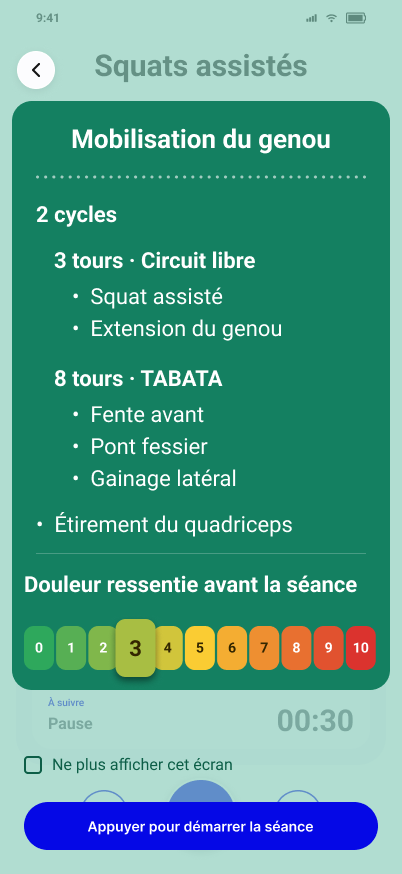
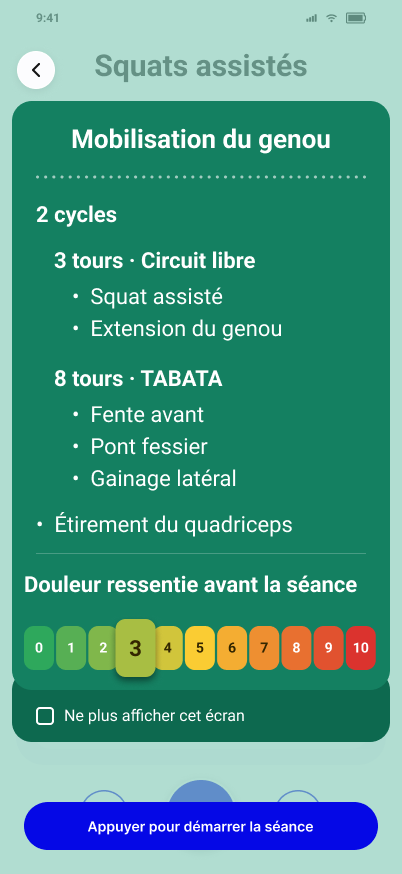
docs: case « Ne plus afficher » dans un cadre accroché (D-577)
Claude-Session: https://claude.ai/code/session_0138cCmJPZqMKdiqcqtCSEpU

Changed region(s): [[0.0299, 0.7723, 0.9851, 0.8959]]

diff --git a/docs/Specifications-fonctionnelles/07 – Registre des décisions de conception.md b/docs/Specifications-fonctionnelles/07 – Registre des décisions de conception.md
@@ -2439,7 +2439,7 @@ Source : [KODJO-Catalogues-cartes-modales-2026-11-06](../KODJO-Catalogues-cartes
 | D-574 | **Modale « Paramètres d'exécution » : fermeture.** La modale n'a pas de poignée (barre horizontale au-dessus du titre) : elle se ferme uniquement par la croix (sans valider, rien n'est enregistré) ou par la coche (valide). Le glissé vers le bas est désactivé : il n'est pas configuré et fermerait la modale en perdant les saisies. Les autres modales du produit gardent leur poignée dans Figma (non revue). Décision de Hermann, 26/11/2026. | Validée — 26/11/2026 | [KODJO-Formats-entrainement-2026-11-02](../KODJO-Formats-entrainement-2026-11-02.md) § 9.10 |
 | D-575 | **Pages des formats Tabata, 30/30, HIIT et Renforcement ; modale du Renforcement.** (1) Tabata, 30/30, HIIT : colonne « Objectif » renommée « Intervalle » ; la Durée totale est la dernière ligne du cadre des paramètres (après Exécution et, pour le Tabata à la suite, après « Récupération entre les mouvements ») ; la colonne Charge disparaît : la charge est écrite sous la valeur de l'intervalle, en plus petit et entre parenthèses, et rien n'est affiché quand il n'y a pas de charge. (2) Renforcement : même règle pour la charge (sous la valeur de la colonne Objectif) ; la Durée totale vient après la ligne Exécution ; la première colonne du tableau est « Séries » (nombre de séries de chaque mouvement) ; la ligne globale « Nombre de séries » est supprimée de la page. (2 bis) Death by : la charge est écrite sous la valeur de la colonne Départ, comme au point 1, et la colonne Charge disparaît. (2 ter) Dans les tableaux de ces formats, la dernière colonne est alignée à droite. (3) Modale « Paramètres d'exécution » du Renforcement : un premier cadre porte le Mode seul ; un deuxième réunit Nombre de répétitions, Nombre de séries, Pause et Charge ; un troisième De chaque côté + Cadence (D-572). (3 bis) Renforcement, nombre de séries : « À la suite », chaque mouvement a son propre nombre de séries ; « En alternance », les mouvements partagent les tours : le nombre de séries est commun et lié (le modifier pour un mouvement le modifie pour tous, dans le tableau comme dans la modale) ; le passage à « À la suite » conserve la valeur actuelle de chaque mouvement, qui peuvent ensuite différer. (4) Zone de contexte (Composition) : la durée totale est alignée à droite, en noir, au premier plan, par-dessus l'emplacement de l'illustration ; Progression : Durée totale après Exécution. Décisions de Hermann, 26/11/2026 ; la ligne Pause de la modale porte la colonne Pause de la page. | Validée — 26/11/2026 | [KODJO-Formats-entrainement-2026-11-02](../KODJO-Formats-entrainement-2026-11-02.md) § 9.10 |
 | D-576 | **Exécution d'un exercice : permutation des vues et changement de média.** (1) Un glissé horizontal (gauche ou droite) sur la zone du haut permute cadran ↔ gros chiffres ; sur la zone du bas (carte des informations ou média) il permute infos ↔ média. (2) Aucun écran d'exécution ne comporte de bouton ⇄ (retirés partout dans Figma le 26/11/2026) : la permutation des vues se fait uniquement par le glissé. [Remplace le bouton de changement de face de D-203 et la proposition du 26/11/2026 de deux boutons ⇄.] (3) Le glissé ne change plus de média : le changement de média se fait avec des flèches gauche/droite sur la zone média ; la galerie reste à plusieurs médias, ordre de la galerie, non circulaire, flèche inactive à la borne, pagination conservée. (4) Le média reste à la taille du demi-écran tant que le bouton d'extension n'est pas actionné ; les flèches de changement de média existent aussi en plein écran. Décisions de Hermann, 26/11/2026. | Validée — 26/11/2026 | [CONCEPTION-EXECUTION-MEDIA](../CONCEPTION-EXECUTION-MEDIA.md) § 5 |
-| D-577 | **Écran « Avant la séance » (affiché avant l'écran d'exécution avec le compte à rebours).** (1) Contenu : en-tête DSF avec bouton Retour et, pour titre, le nom de la séance (pas de zone de contexte, pas de trait de séparation) ; liste en lignes de texte, sans rail ni cartes (ce n'est pas une copie de la composition), des exercices, cycles et circuits qui vont être exécutés, dans l'ordre de la composition, avec le format de chaque circuit mis en évidence (chiffre en premier : « 8 tours · TABATA » (nom du format en majuscules, pour qu'on voie bien quel format est utilisé ; « Circuit libre » quand le circuit n'a pas de format), « 3 tours · Circuit libre », « 2 cycles » ; sans le détail des durées ni la nature groupées/alternées) ; bouton Commencer. (2) Lancement dans un Programme dont l'option douleur est active (D-427) : échelle de douleur 0–10 (libellé « Douleur ressentie avant la séance », sans légende : les cases 0 à 10 sont colorées du vert au rouge selon leur niveau, les couleurs suffisant à indiquer le sens de l'échelle) obligatoire, sans présélection, Le bouton de départ est inactif tant qu'aucun chiffre n'est choisi ; l'écran est toujours affiché. (3) Autre lancement : pas d'échelle de douleur ; une case à cocher « Ne plus afficher cet écran » est proposée, uniquement dans ce cas, en plus petit, hors du cadre vert, sous le cadre et juste au-dessus du bouton. Elle désactive l'affichage de l'écran pour cette séance seulement, jusqu'à ce que l'ordre ou le contenu de la séance (exercices, cycles, circuits, formats) change ; un changement des paramètres d'exécution (durées, répétitions) ne le fait pas réapparaître. Pour toutes les séances, le réglage « Afficher l'écran de démarrage de séance » (interrupteur, activé par défaut, premier réglage du groupe Séance de Profil › Préférences) affiche l'écran pour toute séance ; désactivé, il ne l'affiche pour aucune. La capture de la douleur ne dépend que du Programme (option douleur, D-427) et n'est pas concernée : les deux informations (liste de la séance, douleur) sont distinctes ; avec l'option douleur active, ni la case ni le réglage ne suppriment la capture : quand l'affichage est désactivé, seule la douleur est demandée : même écran, avec dans le cadre vert uniquement la zone douleur, centrée verticalement sur la page ; le bouton reste hors du cadre. [Remplace la mention « Facultatif. Sans réponse, la douleur est notée 0 » de l'ancienne version de l'écran, contraire à D-427.] (4) Parcours de plusieurs séances : l'écran existe en deux versions, une pour la première séance, une pour les suivantes (rang ≥ 2, écran de transition avant la séance suivante). La douleur est demandée une seule fois, sur la version de la première séance, et appliquée à toutes les séances du parcours ; la version des séances suivantes n'a pas d'échelle de douleur. Cette version est dessinée dans l'écran Figma « Exécution d'une séance — Initial — Enchaînement (proposition) » (`12716:25405`), qui reprend la présentation de l'écran de la première séance sans l'échelle de douleur (un seul grand cadre vert centré dans la page, contenant le titre et la liste, le bouton « Appuyer pour démarrer la 2ème séance » étant hors du cadre ; sans « du parcours »), sur le voile vert. (5) Présentation : le premier écran d'exécution de la séance est visible en fond, recouvert sur toute la hauteur du voile vert de l'écran de transition entre séances (DSF-AGENDA), identique à celui de l'écran de transition (même teinte, ≈ 35 %), posé sur un voile blanc à 50 % qui estompe l'écran d'exécution sans assombrir le vert ; le nom n'est pas affiché dans l'en-tête, il l'est comme titre de la carte ; le contenu est porté par une carte blanche, le bouton Retour DSF restant au-dessus du voile. La liste est présentée en une seule taille de texte agrandie (22 pt pour cycles, circuits, formats et exercices ; le titre « Mobilisation du genou » reste à sa taille propre, 26 pt), avec un espace supplémentaire avant chaque bloc circuit ou format (ex. Tabata), les cycles, circuits et formats se distinguant par le gras, sur une carte vert foncé (celui de l'encadré de la transition entre séances) aux textes blancs, avec une indentation par niveau (cycle, circuit, exercices du circuit) ; le titre de la carte (nom de la séance, ou du parcours : « Mobilisation du genou » dans l'écran) est affiché en plus grand, en gras, centré, avec davantage d'espace au-dessus et en dessous, à égale distance du haut du cadre et d'une ligne de pointillés blancs qui le sépare de la liste ; si le titre est trop long, il passe sur deux lignes ; si la liste est plus longue, la carte s'étend vers le haut (le bas reste ancré au-dessus de la case « Ne plus afficher » et du bouton) ; si elle dépasse encore la hauteur disponible, seule la liste défile, le titre restant toujours visible ; la douleur est dans le même cadre, sous la liste, séparée par un trait fin blanc à 22 %, comme sur l'écran de fin de séance (D-578) ; son libellé est en gras, 22 pt comme les cycles et circuits, en blanc ; le bouton est hors du cadre. Les textes de la liste, de l'échelle de douleur et du bouton de départ sont en Roboto. Chaque exercice de la liste, hors le premier mis en avant, est précédé d'un petit point de liste. (6) Bouton de départ : « Bouton primaire » du Design system (354 × 48), hors du cadre vert, en bas d'écran à sa position standard, comme « Enregistrer » en fin de séance (D-578) ; libellés sur une ligne : « Appuyer pour démarrer la séance » (séance lancée seule), « Appuyer pour démarrer le parcours » (première séance d'un parcours), « Appuyer pour démarrer la Xème séance du parcours » (séances suivantes). Le chiffre choisi ressort par une case nettement plus grande (≈ 40 × 58 pt), un chiffre plus gros et une ombre portée, sans liseré. Avec l'échelle de douleur, il est inactif tant qu'aucun chiffre n'est choisi ; état inactif (Figma `13419:1329`) : bouton désactivé du Design system ; toutes les cases de l'échelle de même taille, aucune sélectionnée ; l'écran Figma le montre activé, douleur choisie. Décisions de Hermann, 27/11/2026. | Validée — 27/11/2026 | Figma « P-Avant la séance — Douleur » (`8921:35275`) et « Enchaînement (proposition) » (`12716:25405`) ; ch13 CE-EXEC-SESSION-01 ; rendu : `docs/DSF-AVANT-SEANCE-2026-11-27.md` |
+| D-577 | **Écran « Avant la séance » (affiché avant l'écran d'exécution avec le compte à rebours).** (1) Contenu : en-tête DSF avec bouton Retour et, pour titre, le nom de la séance (pas de zone de contexte, pas de trait de séparation) ; liste en lignes de texte, sans rail ni cartes (ce n'est pas une copie de la composition), des exercices, cycles et circuits qui vont être exécutés, dans l'ordre de la composition, avec le format de chaque circuit mis en évidence (chiffre en premier : « 8 tours · TABATA » (nom du format en majuscules, pour qu'on voie bien quel format est utilisé ; « Circuit libre » quand le circuit n'a pas de format), « 3 tours · Circuit libre », « 2 cycles » ; sans le détail des durées ni la nature groupées/alternées) ; bouton Commencer. (2) Lancement dans un Programme dont l'option douleur est active (D-427) : échelle de douleur 0–10 (libellé « Douleur ressentie avant la séance », sans légende : les cases 0 à 10 sont colorées du vert au rouge selon leur niveau, les couleurs suffisant à indiquer le sens de l'échelle) obligatoire, sans présélection, Le bouton de départ est inactif tant qu'aucun chiffre n'est choisi ; l'écran est toujours affiché. (3) Autre lancement : pas d'échelle de douleur ; une case à cocher « Ne plus afficher cet écran » est proposée, uniquement dans ce cas, en plus petit, dans un second cadre accroché sous le cadre principal (même largeur et mêmes coins arrondis, vert un peu plus foncé). Elle désactive l'affichage de l'écran pour cette séance seulement, jusqu'à ce que l'ordre ou le contenu de la séance (exercices, cycles, circuits, formats) change ; un changement des paramètres d'exécution (durées, répétitions) ne le fait pas réapparaître. Pour toutes les séances, le réglage « Afficher l'écran de démarrage de séance » (interrupteur, activé par défaut, premier réglage du groupe Séance de Profil › Préférences) affiche l'écran pour toute séance ; désactivé, il ne l'affiche pour aucune. La capture de la douleur ne dépend que du Programme (option douleur, D-427) et n'est pas concernée : les deux informations (liste de la séance, douleur) sont distinctes ; avec l'option douleur active, ni la case ni le réglage ne suppriment la capture : quand l'affichage est désactivé, seule la douleur est demandée : même écran, avec dans le cadre vert uniquement la zone douleur, centrée verticalement sur la page ; le bouton reste hors du cadre. [Remplace la mention « Facultatif. Sans réponse, la douleur est notée 0 » de l'ancienne version de l'écran, contraire à D-427.] (4) Parcours de plusieurs séances : l'écran existe en deux versions, une pour la première séance, une pour les suivantes (rang ≥ 2, écran de transition avant la séance suivante). La douleur est demandée une seule fois, sur la version de la première séance, et appliquée à toutes les séances du parcours ; la version des séances suivantes n'a pas d'échelle de douleur. Cette version est dessinée dans l'écran Figma « Exécution d'une séance — Initial — Enchaînement (proposition) » (`12716:25405`), qui reprend la présentation de l'écran de la première séance sans l'échelle de douleur (un seul grand cadre vert centré dans la page, contenant le titre et la liste, le bouton « Appuyer pour démarrer la 2ème séance » étant hors du cadre ; sans « du parcours »), sur le voile vert. (5) Présentation : le premier écran d'exécution de la séance est visible en fond, recouvert sur toute la hauteur du voile vert de l'écran de transition entre séances (DSF-AGENDA), identique à celui de l'écran de transition (même teinte, ≈ 35 %), posé sur un voile blanc à 50 % qui estompe l'écran d'exécution sans assombrir le vert ; le nom n'est pas affiché dans l'en-tête, il l'est comme titre de la carte ; le contenu est porté par une carte blanche, le bouton Retour DSF restant au-dessus du voile. La liste est présentée en une seule taille de texte agrandie (22 pt pour cycles, circuits, formats et exercices ; le titre « Mobilisation du genou » reste à sa taille propre, 26 pt), avec un espace supplémentaire avant chaque bloc circuit ou format (ex. Tabata), les cycles, circuits et formats se distinguant par le gras, sur une carte vert foncé (celui de l'encadré de la transition entre séances) aux textes blancs, avec une indentation par niveau (cycle, circuit, exercices du circuit) ; le titre de la carte (nom de la séance, ou du parcours : « Mobilisation du genou » dans l'écran) est affiché en plus grand, en gras, centré, avec davantage d'espace au-dessus et en dessous, à égale distance du haut du cadre et d'une ligne de pointillés blancs qui le sépare de la liste ; si le titre est trop long, il passe sur deux lignes ; si la liste est plus longue, la carte s'étend vers le haut (le bas reste ancré au-dessus de la case « Ne plus afficher » et du bouton) ; si elle dépasse encore la hauteur disponible, seule la liste défile, le titre restant toujours visible ; la douleur est dans le même cadre, sous la liste, séparée par un trait fin blanc à 22 %, comme sur l'écran de fin de séance (D-578) ; son libellé est en gras, 22 pt comme les cycles et circuits, en blanc ; le bouton est hors du cadre. Les textes de la liste, de l'échelle de douleur et du bouton de départ sont en Roboto. Chaque exercice de la liste, hors le premier mis en avant, est précédé d'un petit point de liste. (6) Bouton de départ : « Bouton primaire » du Design system (354 × 48), hors du cadre vert, en bas d'écran à sa position standard, comme « Enregistrer » en fin de séance (D-578) ; libellés sur une ligne : « Appuyer pour démarrer la séance » (séance lancée seule), « Appuyer pour démarrer le parcours » (première séance d'un parcours), « Appuyer pour démarrer la Xème séance du parcours » (séances suivantes). Le chiffre choisi ressort par une case nettement plus grande (≈ 40 × 58 pt), un chiffre plus gros et une ombre portée, sans liseré. Avec l'échelle de douleur, il est inactif tant qu'aucun chiffre n'est choisi ; état inactif (Figma `13419:1329`) : bouton désactivé du Design system ; toutes les cases de l'échelle de même taille, aucune sélectionnée ; l'écran Figma le montre activé, douleur choisie. Décisions de Hermann, 27/11/2026. | Validée — 27/11/2026 | Figma « P-Avant la séance — Douleur » (`8921:35275`) et « Enchaînement (proposition) » (`12716:25405`) ; ch13 CE-EXEC-SESSION-01 ; rendu : `docs/DSF-AVANT-SEANCE-2026-11-27.md` |
 | D-578 | **Écran de fin de séance, état initial (Terminée — évaluation initiale).** Présentation reprise de l'écran « Avant la séance » (D-577) : l'écran d'exécution de la séance en fond sous les deux voiles (blanc 50 %, vert `#1F9E7A` 35 %), polices Roboto. **Un seul cadre vert** `#148061` aux textes blancs, en trois zones séparées discrètement (trait fin blanc à 22 %) : **statut de la séance**, **données enregistrées** (« Valeurs saisies »), **feedback** (ressenti, douleur, commentaires). De haut en bas : symbole de séance terminée (identique à l'icône « Complétée » de l'Agenda, 44 pt), posé à cheval sur le bord haut du cadre, à moitié dehors, « Séance terminée », date et heure, puis deux colonnes réparties horizontalement, séparées par un trait vertical fin (pas de pointillés), chaque valeur centrée sur son libellé : durée réelle au format minutes’secondes’’ (« 16’30’’ ») et exercices terminés (« 12 / 12 »), « Valeurs saisies » (les valeurs capturées pendant la séance, une ligne par exercice concerné : le nombre de répétitions est modifiable, dans un champ ; les durées capturées sont affichées dans un cadre de même taille et de même format (texte gras centré), mais en simple contour pointillé, sans fond : un champ plein blanc est modifiable, un cadre en pointillés ne l'est pas ; lorsqu'un exercice compte plusieurs tours ou séries, ses valeurs sont présentées en colonnes, une par tour ou série ; mise en forme à arbitrer : la présentation sous le nom de l'exercice, essayée le 27/11/2026, n'a pas été retenue), « Comment s'est passée la séance ? » avec cinq boutons de ressenti, sans libellé, à visages distincts, rangés de gauche à droite du plus négatif au plus positif (très mal, mal, neutre, bien, très bien), « Douleur ressentie » (échelle 0 à 10 colorée, D-577), « Des commentaires ? » (champ facultatif, avec un bouton rond à icône d'appareil photo, à droite dans le champ, pour prendre une photo de la séance ; appareil photo natif du système ; À CLARIFIER : nombre de photos, aperçu après la prise, conservation et partage). Les titres de rubrique (valeurs saisies, ressenti, douleur, commentaires) ont la même taille (Roboto Bold 18), avec un espace net entre la question et sa zone de réponse. Le bouton Enregistrer est **hors du cadre**, conforme à la norme du Design system (« Bouton primaire », 354 × 48, état désactivé) et à sa position standard en bas d'écran ; désactivé tant qu'aucun ressenti n'est choisi. La douleur n'est demandée que si le programme l'active (D-427) ; sinon elle disparaît du cadre. Le nom de la séance et la liste détaillée des exercices réalisés sont retirés ; seules les valeurs saisies sont rappelées. À CLARIFIER : liste exacte des exercices et valeurs repris dans « Valeurs saisies » (aujourd'hui trois exemples dans la maquette). Pas de bouton Retour. Les autres états de la synthèse (ressenti sélectionné, séance partielle) sont à décliner sur cette présentation. | Validée — 27/11/2026 | Figma « P-Synthèse de séance — Terminée — Évaluation initiale » (`1992:8718`) ; ch13 CE-UI-08 |
 | D-579 | **Ressenti de séance à cinq niveaux (très bien, bien, neutre, mal, très mal).** Le choix du ressenti passe de trois à cinq niveaux, chacun avec un visage distinct, sans libellé, rangés du plus négatif (à gauche) au plus positif (à droite) : très mal (yeux en croix, langue tirée, sans bouche ouverte), mal (moue), neutre, bien (sourire), très bien (sourire large, bouche en contour transparent). Appliqué pour l'instant à l'écran de fin de séance (D-578). À CLARIFIER : extension aux autres écrans de synthèse, au composant de ressenti du Design system, aux cartes du flux et à la donnée enregistrée (aujourd'hui trois valeurs). | Validée — 27/11/2026 (écran de fin de séance) ; extension à arbitrer | Figma « P-Synthèse de séance — Terminée — Évaluation initiale » (`1992:8718`) |
 | D-580 | **Écrans de fin de séance partielle et arrêtée.** Même écran et mêmes zones que la fin de séance terminée (D-578) : statut, données enregistrées, feedback (ressenti à cinq niveaux, douleur, commentaires avec photo), Enregistrer hors cadre. Seuls changent le symbole, repris de l'Agenda sans liseré, le titre, les chiffres et **la couleur du voile et du cadre** : terminée en vert (voile `#1F9E7A`, cadre `#148061`), partielle en orange (voile `#F58C1A`, cadre `#BD620B`), arrêtée en rouge (voile `#CC3838`, cadre `#8E1F1F`) ; voile à 35 % dans les trois cas. Sur l'écran arrêté, les cases de l'échelle de douleur reçoivent un contour blanc fin (0,75 pt) pour rester lisibles sur le cadre rouge ; le bouton photo prend la couleur du cadre. **Partielle** : symbole « Partielle » (anneau de progression), titre « Séance partielle », exercices terminés « 9 / 12 ». **Arrêtée** (arrêt volontaire, statut `Interrompue`) : symbole « Arrêtée » (rond rouge, carré blanc), titre « Séance arrêtée », exercices terminés « 5 / 12 ». La durée réelle est celle effectivement exécutée. L'écran partiel remplace l'ancien « Synthèse de séance — Partielle — Évaluation initiale ». Les écrans « Ressenti sélectionné » correspondants restent à décliner. | Validée — 27/11/2026 | Figma `13441:48061` (partielle), `13441:48253` (arrêtée) ; ch06 ; ch13 CE-UI-08 |

diff --git a/docs/PROMPT-CLAUDE-CODE-AVANT-SEANCE-2026-11-27.md b/docs/PROMPT-CLAUDE-CODE-AVANT-SEANCE-2026-11-27.md
@@ -10,11 +10,11 @@ Principe : un seul écran, deux versions, affiché avant l'écran d'exécution ;
 1. **Fond et voiles** : le premier écran d'exécution de la séance est rendu en fond, recouvert d'un voile blanc à 50 % puis d'un voile vert `#1F9E7A` à 35 %, sur toute la hauteur ; le bouton Retour DSF reste au-dessus ; le nom de la séance n'est pas dans l'en-tête. Mesures et couleurs : DSF § 2.
 2. **Version « première séance »** (`8921:35275`) : (a) cadre vert de la liste : titre (nom de la séance, ou du parcours), centré entre le haut du cadre et une ligne de pointillés blancs (DSF § 3), sur deux lignes s'il est trop long, puis liste en lignes de texte des cycles, circuits et exercices dans l'ordre de la composition, avec retrait par niveau, format en majuscules et chiffre en premier (« 8 tours · TABATA », « 3 tours · Circuit libre », « 2 cycles »), sans durées ni nature groupées/alternées ; (b) dans le même cadre, sous la liste, après un trait fin de séparation (blanc à 22 %, DSF § 4) : si l'option douleur du Programme est active, échelle 0 à 10 obligatoire, sans présélection, sans légende, cases colorées du vert au rouge, case choisie agrandie avec ombre ; le bouton est inactif tant qu'aucun chiffre n'est choisi ; sinon, ni trait ni échelle et le bouton est actif ; (c) bouton hors du cadre : « Bouton primaire » du Design system (354 × 48, états Actif / Désactivé), en bas d'écran à sa position standard (x = 24, y = 802), « Appuyer pour démarrer la séance » (séance lancée seule) ou « …le parcours » (première séance d'un parcours) (DSF § 5).
 3. **Version « séances suivantes »** (`12716:25405`, rang ≥ 2) : un seul grand cadre vert centré verticalement (titre et liste ; bouton hors du cadre, DSF § 5), sans échelle de douleur, bouton « Appuyer pour démarrer la 2ème séance » (rang calculé : 2ème, 3ème…). La douleur est demandée une seule fois, sur la première séance du parcours, et appliquée à toutes les séances du parcours ; aucune nouvelle persistance au-delà de ce qui existe pour la douleur d'une séance : la valeur transite avec la chaîne (paramètres de route ou état de l'orchestrateur).
-4. **Hauteur** : si la liste est plus longue, le cadre s'étend vers le haut (bas ancré au-dessus de la case « Ne plus afficher » et du bouton) ; au-delà de la hauteur disponible, seule la liste défile, le titre restant toujours visible.
+4. **Hauteur** : si la liste est plus longue, le cadre s'étend vers le haut (bas ancré au-dessus du cadre accroché « Ne plus afficher » et du bouton) ; au-delà de la hauteur disponible, seule la liste défile, le titre restant toujours visible.
 5. **Polices et relief** : Roboto partout dans l'écran ; le bouton est le Bouton primaire du Design system, sans relief propre ; la case choisie n'a pas de liseré.
 6. **Accessibilité** : la valeur de chaque case est annoncée (chiffre, « sélectionné », rôle de l'élément) ; la couleur n'est jamais le seul indicateur (le chiffre est toujours présent) ; l'état inactif du bouton est annoncé.
 
-7. **Affichage de l'écran (décidé, D-577)** : (1) réglage global « Afficher l'écran de démarrage de séance » (interrupteur DSF, activé par défaut) dans le groupe Séance de Profil › Préférences, en première ligne avant « Compte à rebours de la séance » (écran Figma « Profil — Préférences », `1992:684`) : activé, l'écran est affiché pour toute séance ; désactivé, pour aucune ; (2) case « Ne plus afficher cet écran » (hors du cadre vert, sous le cadre et juste au-dessus du bouton, en plus petit, uniquement hors option douleur) : désactive l'affichage pour cette séance seulement, jusqu'à ce que l'ordre ou le contenu de la séance (exercices, cycles, circuits, formats) change ; les paramètres d'exécution (durées, répétitions…) n'y comptent pas ; (3) la capture de la douleur ne dépend que du Programme (option douleur) et n'est concernée ni par la case ni par le réglage : si l'affichage est désactivé et que l'option douleur est active, seule la douleur est demandée (même écran, avec dans le cadre vert uniquement la zone douleur, centrée verticalement sur la page ; bouton hors du cadre). Persistance minimale autorisée : la préférence et l'empreinte de la composition vue par séance ; à signaler dans le rapport.
+7. **Affichage de l'écran (décidé, D-577)** : (1) réglage global « Afficher l'écran de démarrage de séance » (interrupteur DSF, activé par défaut) dans le groupe Séance de Profil › Préférences, en première ligne avant « Compte à rebours de la séance » (écran Figma « Profil — Préférences », `1992:684`) : activé, l'écran est affiché pour toute séance ; désactivé, pour aucune ; (2) case « Ne plus afficher cet écran » (dans un second cadre accroché sous le cadre principal : même largeur et mêmes coins arrondis, vert un peu plus foncé, en plus petit, uniquement hors option douleur) : désactive l'affichage pour cette séance seulement, jusqu'à ce que l'ordre ou le contenu de la séance (exercices, cycles, circuits, formats) change ; les paramètres d'exécution (durées, répétitions…) n'y comptent pas ; (3) la capture de la douleur ne dépend que du Programme (option douleur) et n'est concernée ni par la case ni par le réglage : si l'affichage est désactivé et que l'option douleur est active, seule la douleur est demandée (même écran, avec dans le cadre vert uniquement la zone douleur, centrée verticalement sur la page ; bouton hors du cadre). Persistance minimale autorisée : la préférence et l'empreinte de la composition vue par séance ; à signaler dans le rapport.
 8. **État sans choix** (`13419:1329`, état initial avec option douleur) : onze cases de même taille, aucune sélectionnée ; bouton désactivé (Bouton primaire, état Désactivé ; DSF § 4 et 5). État non dessiné : version sans option douleur avec la case (illustrée sur `8921:35275`).
 
 À SIGNALER dans le rapport (hypothèse, ne pas trancher) : un toucher ailleurs que sur le bouton ne fait rien.

diff --git a/docs/DSF-AVANT-SEANCE-2026-11-27.md b/docs/DSF-AVANT-SEANCE-2026-11-27.md
@@ -43,4 +43,4 @@ Dans le même cadre vert que la liste, sous elle, séparée par un trait fin : r
 
 ## 6. Réglages d'affichage et états
 
-« Ne plus afficher cet écran » (cette séance seulement) : case à cocher placée hors du cadre vert, sous le cadre et juste au-dessus du bouton (y = 756 sur la capture), en plus petit que la liste, proposée uniquement hors option douleur (D-577) ; dessinée sur `8921:35275` à titre d'illustration (case 18 × 18, rayon 4, contour et libellé vert foncé `#0D5F47` sur le fond voilé ; libellé Roboto normal 16, à 10 de la case ) ; dans l'écran avec option douleur, elle n'apparaît pas. Réglage global : « Afficher l’écran de démarrage de séance » dans le groupe Séance de Profil › Préférences (`1992:684`), en première ligne, avant « Compte à rebours de la séance » : ligne de 42 pt au format des autres réglages, interrupteur DSF activé par défaut (écran affiché pour toute séance) ; désactivé, l'écran n'est affiché pour aucune séance ; le groupe Annonces vocales est décalé de 42 pt. La case « Ne plus afficher cet écran » ne désactive l'affichage que pour la séance, jusqu'à un changement de l'ordre ou du contenu de ses exercices (pas des paramètres d'exécution). La capture de la douleur ne dépend que du Programme (option douleur) : elle n'est concernée ni par la case ni par le réglage (D-577) ; avec option douleur et affichage désactivé, seule la douleur est demandée : même écran avec, dans le cadre vert, uniquement la zone douleur, centré verticalement (non dessiné, simple recadrage) ; le bouton reste hors du cadre. État non dessiné : version sans option douleur avec « Ne plus afficher cet écran » (illustrée sur `8921:35275`). Vérification sur iPhone à faire : défilement de la liste sous le titre, lisibilité du texte sur le voile, case choisie bien visible.
+« Ne plus afficher cet écran » (cette séance seulement) : case à cocher placée dans un second cadre accroché sous le cadre principal (même largeur 378, mêmes coins arrondis de 20, vert un peu plus foncé `#0D6950` ; visible sur 52 pt, de y = 690 à 742 sur la capture ; case à x = 36, y = 707), en plus petit que la liste, proposée uniquement hors option douleur (D-577) ; dessinée sur `8921:35275` à titre d'illustration (case 18 × 18, rayon 4, contour et libellé blancs sur le cadre accroché ; libellé Roboto normal 16, à 10 de la case ) ; dans l'écran avec option douleur, elle n'apparaît pas. Réglage global : « Afficher l’écran de démarrage de séance » dans le groupe Séance de Profil › Préférences (`1992:684`), en première ligne, avant « Compte à rebours de la séance » : ligne de 42 pt au format des autres réglages, interrupteur DSF activé par défaut (écran affiché pour toute séance) ; désactivé, l'écran n'est affiché pour aucune séance ; le groupe Annonces vocales est décalé de 42 pt. La case « Ne plus afficher cet écran » ne désactive l'affichage que pour la séance, jusqu'à un changement de l'ordre ou du contenu de ses exercices (pas des paramètres d'exécution). La capture de la douleur ne dépend que du Programme (option douleur) : elle n'est concernée ni par la case ni par le réglage (D-577) ; avec option douleur et affichage désactivé, seule la douleur est demandée : même écran avec, dans le cadre vert, uniquement la zone douleur, centré verticalement (non dessiné, simple recadrage) ; le bouton reste hors du cadre. État non dessiné : version sans option douleur avec « Ne plus afficher cet écran » (illustrée sur `8921:35275`). Vérification sur iPhone à faire : défilement de la liste sous le titre, lisibilité du texte sur le voile, case choisie bien visible.

diff --git a/.github/orchestration/reports/2026-11-18_PLANIF-GRILLE-DOC.md b/.github/orchestration/reports/2026-11-18_PLANIF-GRILLE-DOC.md
@@ -371,3 +371,4 @@
 - Complément (suite 24, D-580/D-581) : états de couleur validés (orange partielle, rouge arrêtée, cadres propres à chaque état, sans liseré sur les symboles, contour fin sur l'échelle de douleur de l'écran arrêté) ; quatre anciens écrans de synthèse supprimés (1992:8780, 4760:6500, 8921:35340, 8925:15593), rangée resserrée ; ch06, ch13, PRODUCT.md et registre D-581 alignés. À clarifier : devenir de l'effort perçu 1–10. Classe B ; tests non applicables.
 - Complément (suite 25, D-577/D-581) : écrans « Avant la séance » (8921:35275, 13419:1329, 12716:25405) : douleur remise dans le cadre vert unique avec trait de séparation (22 %), bouton remis hors du cadre en Bouton primaire du DS (354 × 48, y 802), case « Ne plus afficher » au-dessus du bouton ; DSF, prompt Claude Code, D-577 alignés. Localisation de la douleur : plus de zone normée, au mieux un commentaire (D-581). Classe B ; tests non applicables.
 - Complément (suite 26, D-581, classe B) : décision de Hermann du 27/11/2026 — l'effort perçu (D-427) est le Ressenti à cinq niveaux (D-579) ; pas d'échelle 1–10 distincte. D-581 mis à jour ; le point À CLARIFIER est levé. Aucun test applicable (documentation).
+- Complément (suite 27, D-577, classe B) : « Ne plus afficher cet écran » placée dans un second cadre accroché sous la carte (8921:35275, 13419:1329) ; même largeur et mêmes coins, vert un peu plus foncé. DSF, prompt Claude Code, D-577 et captures alignés. Aucun test applicable (documentation).
